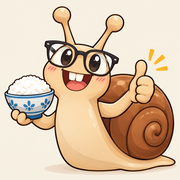
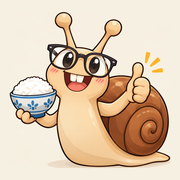
Make FairDish installable to the iOS/Android home screen
Add a web app manifest (standalone, FairDish name, mascot icons at 192
and 512), iOS home-screen meta tags, and a padded apple-touch-icon so
the mascot isn't clipped by the rounded icon mask.

Claude-Session: https://claude.ai/code/session_01R5CtGMgwvRsyCJedkGpNN8

Changed region(s): [[0.0, 0.0278, 1.0, 0.9722]]

diff --git a/index.html b/index.html
@@ -10,6 +10,12 @@
 <link href="https://fonts.googleapis.com/css2?family=Bai+Jamjuree:wght@400;500;600;700&family=Sarabun:wght@400;500;600;700&family=IBM+Plex+Mono:wght@400;500;600&display=swap" rel="stylesheet">
 <link rel="icon" type="image/png" href="img/favicon.png">
 <link rel="apple-touch-icon" href="img/apple-touch-icon.png">
+<link rel="manifest" href="manifest.webmanifest">
+<meta name="theme-color" content="#FFF6DF">
+<meta name="apple-mobile-web-app-capable" content="yes">
+<meta name="mobile-web-app-capable" content="yes">
+<meta name="apple-mobile-web-app-title" content="FairDish">
+<meta name="apple-mobile-web-app-status-bar-style" content="default">
 <link rel="stylesheet" href="css/style.css">
 </head>
 <body>
